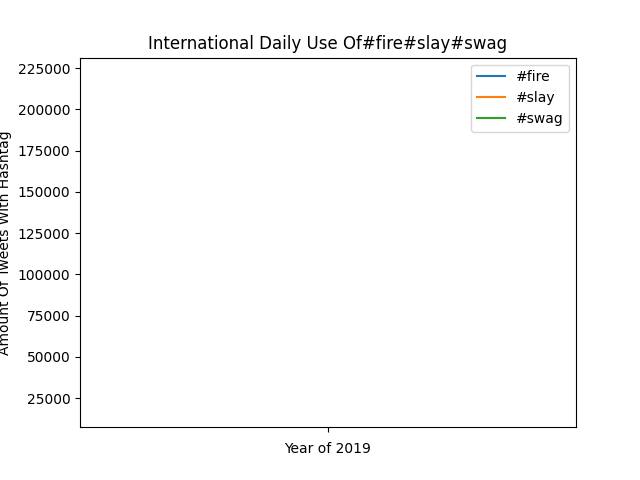
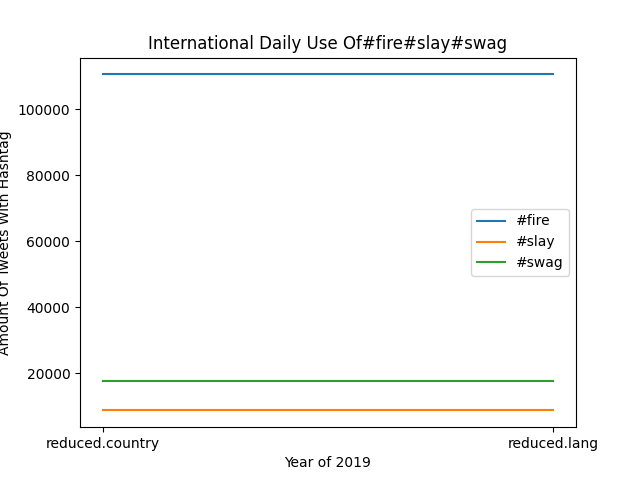
see image

diff --git a/src/alt_reduce_visual.py b/src/alt_reduce_visual.py
@@ -15,17 +15,23 @@ import matplotlib.pyplot as plt
 total = defaultdict(lambda: Counter())
 for path in args.input_paths:
     with open(path) as f:
+        print ("path =", path)
         tmp = json.load(f)
         for k in tmp:
-            #up till this point, this ^^ code was in reduce 
+            print ("k =", k)
             if k in args.keys:
-                total[k][path[21:26]] += sum(tmp[k].values())
+                print ("total[k][path] =", total[k][path])
+                total[k][path] += sum(tmp[k].values())
+
+print("total:", total)
 
 #and this is the same as visualize code 
 fig, ax = plt.subplots()
 for k in total.keys():
     #summing 
     ax.plot(total[k].keys(),total[k].values(),label = f'{k}')
+
+print ("t2:", total)
 
 tags = ''
 for tag in args.keys: 
